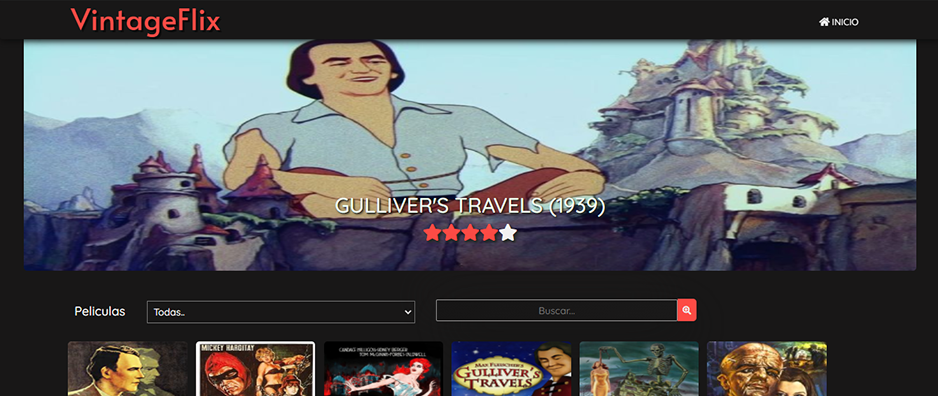
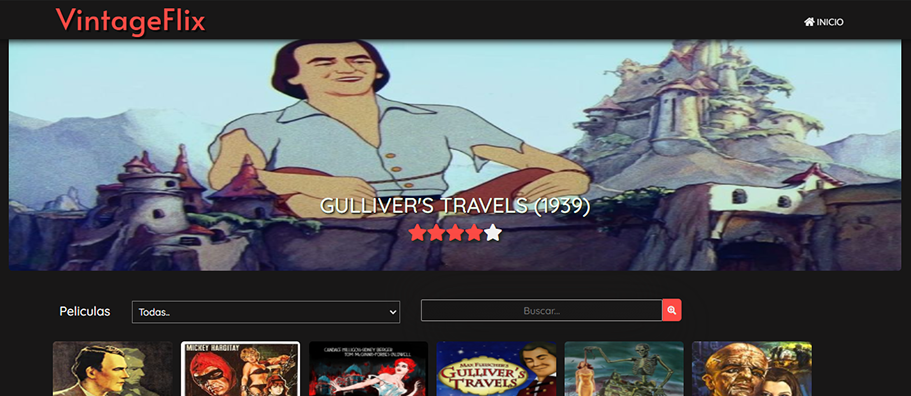
Changed images and css

diff --git a/index.html b/index.html
@@ -216,7 +216,7 @@
             <div class="project">
                 <div class="row">
                     <!-- Row 1 -->
-                    <div class="col-sm-5 mobile-center">
+                    <div class="col-sm-4 mobile-center">
                         <img class="page" src="css/images/vintage-flix.png" />
                     </div>
                     <!-- Row 2 -->
@@ -271,7 +271,7 @@
                 <div class="row">
                     <!-- Row 1 -->
                     <div class="col-sm-4 mobile-center">
-                        <iframe width="350" height="250" src="https://www.youtube.com/embed/1wyU6m-Jlnw" frameborder="0" allow="accelerometer;
+                        <iframe width="400" height="250" src="https://www.youtube.com/embed/1wyU6m-Jlnw" frameborder="0" allow="accelerometer;
                                     autoplay; encrypted-media; gyroscope; picture-in-picture" allowfullscreen>
                                 </iframe>
                     </div>
@@ -321,7 +321,7 @@
                 <div class="row">
                     <!-- Row 1 -->
                     <div class="col-sm-4 mobile-center">
-                        <iframe width="350" height="250" src="https://www.youtube.com/embed/O6WOzWaaii8" frameborder="0" allow="accelerometer;
+                        <iframe width="400" height="250" src="https://www.youtube.com/embed/O6WOzWaaii8" frameborder="0" allow="accelerometer;
                                     autoplay; encrypted-media; gyroscope; picture-in-picture" allowfullscreen>
                                 </iframe>
                     </div>
@@ -366,7 +366,7 @@
                 <div class="row">
                     <!-- Row 1 -->
                     <div class="col-sm-4 mobile-center">
-                        <iframe width="350" height="250" src="https://www.youtube.com/embed/p13qbVYCBGA" frameborder="0" allow="accelerometer;
+                        <iframe width="400" height="250" src="https://www.youtube.com/embed/p13qbVYCBGA" frameborder="0" allow="accelerometer;
                                     autoplay; encrypted-media; gyroscope; picture-in-picture" allowfullscreen>
                                 </iframe>
                     </div>

diff --git a/css/style.css b/css/style.css
@@ -207,12 +207,12 @@ h3 {
 }
 
 .desktop {
-    width: 35rem !important;
-    height: 35rem !important;
+    width: 32rem !important;
+    height: 32rem !important;
 }
 
 .page {
-    width: 45rem !important;
+    width: 40rem !important;
     height: 20rem !important;
 }
 
